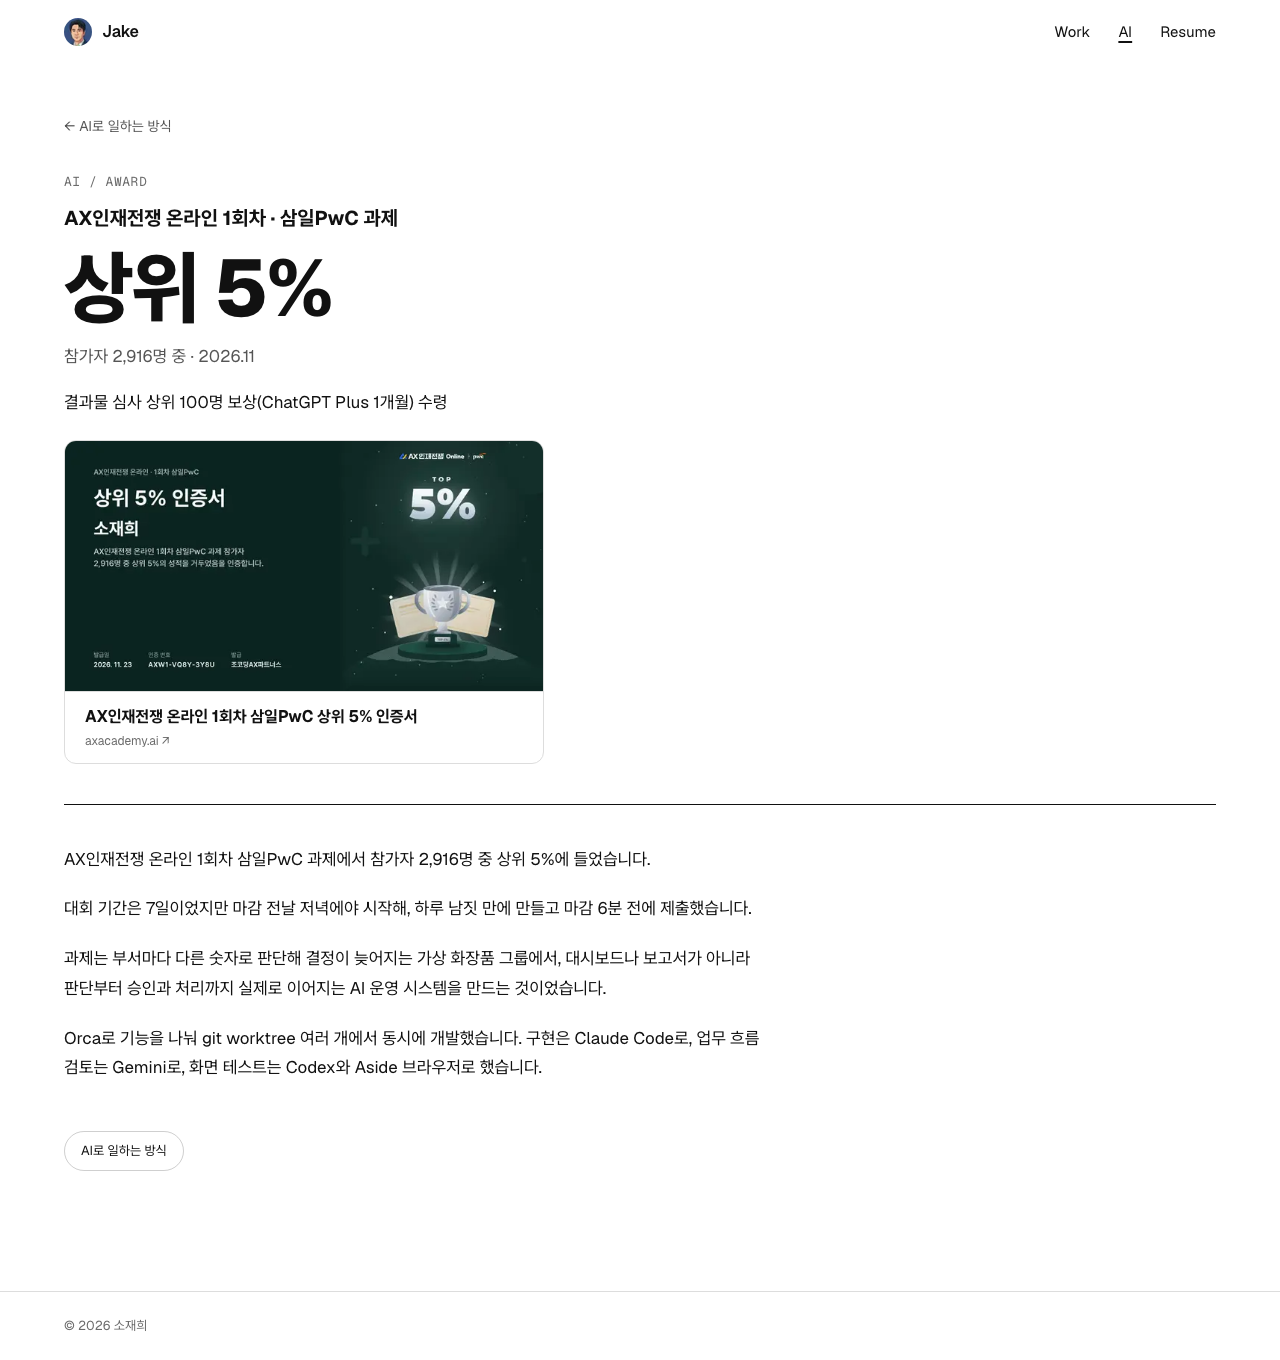
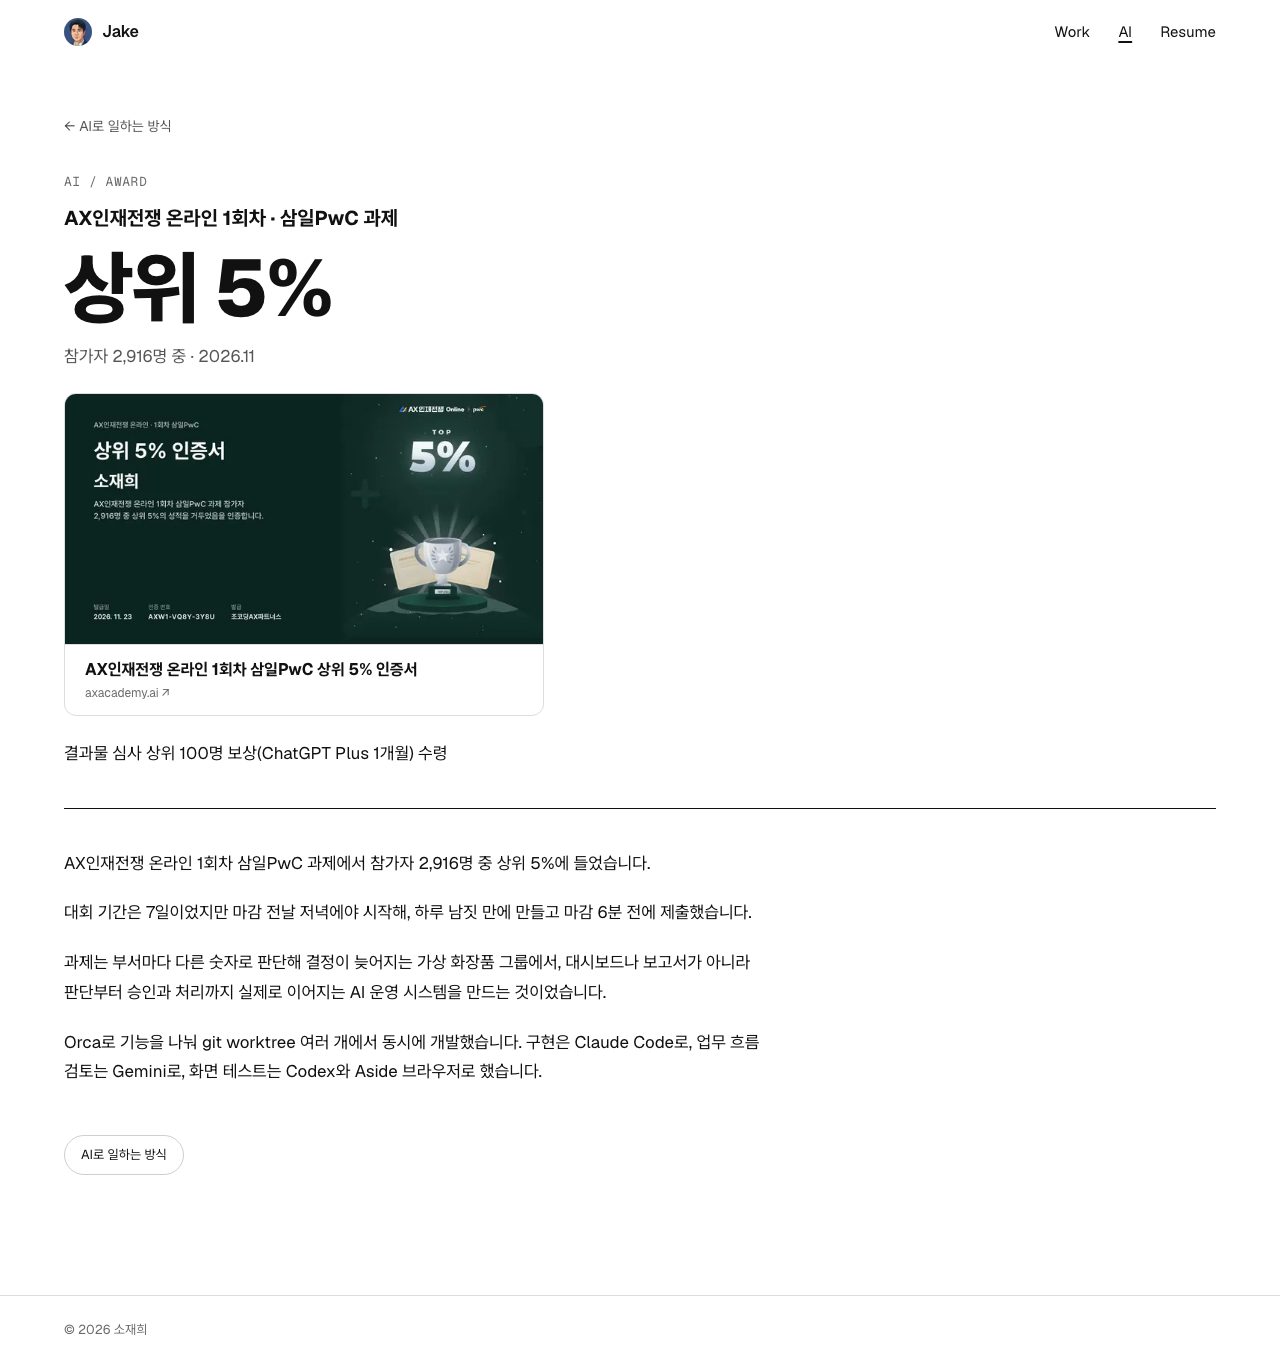
docs: record the reward note below the certificate card

diff --git a/docs/02-ia.md b/docs/02-ia.md
@@ -436,15 +436,16 @@ Design 캔버스에 실제 문구로 그린 `/ai` 시안입니다.
 |---|---|
 | 메시지 | AI 실력을 겨루는 대회에서 상위 5%에 들었고, 무엇을 어떻게 만들었는지 로그인 없이 한 페이지에서 봅니다 |
 | 사실과 출처 | 사이트 전용 글 `content/site/axwar.md`([ADR-0003](adr/0003-content-source-and-sync.md)). 대회 이름, 참가자 수, 상위 5%는 이력서의 대외활동 절과 자기소개, 공개 인증서 페이지, 결과 발표 공지입니다. 덧붙임 줄과 본문 네 문단(본인이 쓴 글)은 공개 공지와 본인 확인(2026-11-27)이 출처이고, 글 끝 주석에 적었습니다 |
-| 구성 | 한 페이지. 돌아가기 링크 → 머리(대회 이름, 큰 결과, 참가자 줄, 덧붙임 줄, 인증서 카드) → 굵은 선 → 본문 네 문단 → 끝 링크 → 푸터 |
+| 구성 | 한 페이지. 돌아가기 링크 → 머리(대회 이름, 큰 결과, 참가자 줄, 인증서 카드, 덧붙임 줄) → 굵은 선 → 본문 네 문단 → 끝 링크 → 푸터 |
 | 움직임 | 없음 |
 
 - **왜 두나**: 홈 띠의 버튼이 대회 측 인증서로 바로 가서, 무엇을 어떻게 만들었는지 설명할 곳이 없었습니다. 같은 글을 올린 다른 곳은 로그인해야 보이고 메신저 안 브라우저에서 열기 번거로워, 로그인 없이 열리고 링크를 보내기 좋은 페이지를 둡니다.
 - **들어오는 길**: 홈 "AI로 일하는 방식"과 `/resume` 머리 아래의 대회 결과 띠, 버튼 "자세히 보기"입니다. 헤더 메뉴와 `/ai`에는 입구가 없습니다. 주소가 `/ai` 아래라 헤더의 "AI"에 지금 보는 곳 표시(밑줄, `aria-current="true"`)가 붙습니다.
 - **돌아가기 링크**: 머리 위에 "← AI로 일하는 방식"(`/ai`). 형제 페이지와 같습니다(AI 판단).
-- **머리**: 머리글 `AI / AWARD`(형제 페이지의 `AI / CASE`, `AI / APP`에 맞춤, AI 판단). 그 아래 "AX인재전쟁 온라인 1회차 · 삼일PwC 과제"(굵게), 큰 "상위 5%", 회색 "참가자 2,916명 중 · 2026.11", 덧붙임 "결과물 심사 상위 100명 보상(ChatGPT Plus 1개월) 수령", 인증서 카드(그림 전체 폭 아래에 제목 "AX인재전쟁 온라인 1회차 삼일PwC 상위 5% 인증서"와 도메인 "axacademy.ai ↗", 새 창) 순서입니다.
+- **머리**: 머리글 `AI / AWARD`(형제 페이지의 `AI / CASE`, `AI / APP`에 맞춤, AI 판단). 그 아래 "AX인재전쟁 온라인 1회차 · 삼일PwC 과제"(굵게), 큰 "상위 5%", 회색 "참가자 2,916명 중 · 2026.11", 인증서 카드(그림 전체 폭 아래에 제목 "AX인재전쟁 온라인 1회차 삼일PwC 상위 5% 인증서"와 도메인 "axacademy.ai ↗", 새 창), 덧붙임 "결과물 심사 상위 100명 보상(ChatGPT Plus 1개월) 수령" 순서입니다.
   - 대회 이름 줄과 "상위 5%"는 화면에서 두 줄이지만 h1 하나로 묶어, 화면 읽기 프로그램과 검색엔진에는 "AX인재전쟁 온라인 1회차 · 삼일PwC 과제 상위 5%"로 읽힙니다(AI 판단). "상위 5%"만 h1이면 무엇의 결과인지 빠집니다.
   - 덧붙임 줄은 처음에 문장("~도 받았습니다")으로 정했다가 개조식으로 바꿨습니다(2026-11-27, 사용자).
+  - 덧붙임 줄의 자리는 처음에 참가자 줄 아래, 카드 위였습니다. 사용자 제안으로 카드 아래와 비교판에서 견줘 카드 아래로 옮겼습니다(2026-11-27). "상위 5%" 바로 아래에 증빙이 오고, 덧붙임은 따로 받은 보상으로 읽힙니다. 카드 바로 밑이라 카드의 설명(인증서가 이 보상까지 증명함)으로 읽히지 않게 카드 테두리 밖에 띄우고(모바일 1rem, 데스크톱 1.5rem) 카드 안 글과 다른 본문 글자로 씁니다. 두 자리 모두 1280×800, 375×812 첫 화면 안에 듭니다.
   - 브라우저 제목은 "AX인재전쟁 대회 상위 5% · 소재희", 검색 설명은 본문 첫 문단입니다. 같은 문장을 두 곳에 두지 않으려고 설명을 따로 쓰지 않습니다(AI 판단).
 - **본문**: 굵은 선 아래 네 문단입니다. 본인이 쓴 글을 그대로 씁니다. 제작 기간은 "하루 남짓"입니다(마감 전날 저녁에 시작해 마감 6분 전에 제출). 이력서 자기소개의 "이틀 만에"는 날짜로 센 말이라 원문을 고치지 않고, 대신 띠에서 기간을 뺐습니다.
 - **인증서 카드**(2026-11-27, 사용자 요청): 링크드인 게시물의 링크 카드처럼 인증서를 미리보기 카드 하나로 보여 줍니다. 처음에는 머리 아래 테두리 버튼과 끝 버튼 줄의 채운 버튼, "인증서 보기" 두 개가 같은 곳으로 갔습니다.

diff --git a/docs/superpowers/specs/2026-11-27-ai-axwar-design.md b/docs/superpowers/specs/2026-11-27-ai-axwar-design.md
@@ -78,10 +78,11 @@ AI / AWARD
 AX인재전쟁 온라인 1회차 · 삼일PwC 과제      (굵게)
 상위 5%                                      (아주 크게)
 참가자 2,916명 중 · 2026.11                  (회색)
-결과물 심사 상위 100명 보상(ChatGPT Plus 1개월) 수령
 ┌ 인증서 그림 (전체 폭) ┐
 │ AX인재전쟁 온라인 1회차 삼일PwC 상위 5% 인증서
 └ axacademy.ai ↗        ┘                   (카드 하나, 새 창)
+
+결과물 심사 상위 100명 보상(ChatGPT Plus 1개월) 수령   (카드 밖, 띄움)
 ━━━━━━━━━━━━━━━━━━━━━━━━━━━━━━━━━━━━━━━━━━━━
 본문 네 문단
 [AI로 일하는 방식]
@@ -91,8 +92,8 @@ AX인재전쟁 온라인 1회차 · 삼일PwC 과제      (굵게)
 - **머리글**: `AI / AWARD`. 형제 페이지의 `AI / CASE`, `AI / APP`에 맞춥니다. (AI 판단)
 - **제목(h1)**: 화면에는 대회 이름 줄과 큰 "상위 5%" 두 줄로 보이고, 두 줄을 h1 하나에 넣습니다. 화면 읽기 프로그램과 검색엔진에는 "AX인재전쟁 온라인 1회차 · 삼일PwC 과제 상위 5%"로 읽힙니다. "상위 5%"만 h1이면 무엇의 결과인지 빠지기 때문입니다. (AI 판단)
 - **참가자 줄**: "참가자 2,916명 중 · 2026.11", 회색.
-- **덧붙임 줄**(확정 문구, 개조식): "결과물 심사 상위 100명 보상(ChatGPT Plus 1개월) 수령". 본문 글자색입니다.
-- **인증서 카드**(2026-11-27 둘째 비교판에서 정함): 덧붙임 아래에 링크드인 게시물의 링크 카드 같은 카드 하나. 그림 전체 폭(데스크톱 30rem까지) 아래에 제목 "AX인재전쟁 온라인 1회차 삼일PwC 상위 5% 인증서"와 도메인 "axacademy.ai". 카드 전체가 링크이고 새 창으로 https://axacademy.ai/axwar/cert/dxN6SEBhEGU6n1JU1brdfPa0 를 엽니다.
+- **덧붙임 줄**(확정 문구, 개조식): "결과물 심사 상위 100명 보상(ChatGPT Plus 1개월) 수령". 본문 글자색입니다. 인증서 카드 아래, 카드 테두리 밖에 띄워 둡니다(셋째 비교판, 2026-11-27). 처음에는 참가자 줄 아래, 카드 위였습니다. 카드 바로 밑이라 카드의 설명으로 읽히지 않게 사이를 넓히고 카드 안 글과 다른 글자로 씁니다.
+- **인증서 카드**(2026-11-27 둘째 비교판에서 정함): 참가자 줄 아래에 링크드인 게시물의 링크 카드 같은 카드 하나. 그림 전체 폭(데스크톱 30rem까지) 아래에 제목 "AX인재전쟁 온라인 1회차 삼일PwC 상위 5% 인증서"와 도메인 "axacademy.ai". 카드 전체가 링크이고 새 창으로 https://axacademy.ai/axwar/cert/dxN6SEBhEGU6n1JU1brdfPa0 를 엽니다.
   - 그림은 인증서 페이지의 공유 그림(og:image, 1200×630)을 받아 `src/assets/ai/axwar/cert.png`에 둡니다. 인증서가 비공개로 바뀌어도 깨지지 않게 하려는 것입니다.
   - 제목은 인증서 페이지의 그림 설명(og:image:alt)입니다. 페이지 제목(og:title)은 이름에 "님"이 붙어 쓰지 않습니다.
   - 처음 설계는 덧붙임 아래 테두리 버튼 "인증서 보기 ↗"와 끝 버튼 줄의 채운 버튼 "인증서 보기 ↗"였습니다. 같은 버튼이 두 번 보인다는 사용자 지적으로 카드 하나로 바꿨습니다. 둘째 비교판에서 가로형(머리 아래), 세로형(머리 아래), 세로형(본문 끝)을 견줘 세로형 머리 아래를 골랐습니다.
@@ -114,8 +115,8 @@ AX인재전쟁 온라인 1회차 · 삼일PwC 과제      (굵게)
 | 대회 이름 줄 | 1rem, 굵게(700) | 1.25rem |
 | "상위 5%" | 3.25rem, 굵기 800, 자간 -0.025em, 줄 간격 1.1 | 5rem |
 | 참가자 줄 | 0.9375rem, `muted` | 1.0625rem |
-| 덧붙임 줄 | 0.9375rem, `fg`, 줄 간격 1.6, 위 0.25rem 더 | 1.0625rem, 위 0.5rem 더 |
 | 인증서 카드 | 본문 폭 전체, 테두리 `line`, 모서리 0.625rem, 위 0.5rem 더. 글 칸 여백 0.75rem · 1rem, 제목 0.9375rem 굵게, 도메인 0.75rem `subtle` | 폭 30rem까지, 모서리 0.75rem, 위 0.75rem 더. 글 칸 여백 0.875rem · 1.25rem, 제목 1rem |
+| 덧붙임 줄 | 카드 아래, 카드 테두리 밖. 0.9375rem, `fg`, 보통 굵기, 줄 간격 1.6. 카드와 사이 1rem(줄 사이 0.5rem에 0.5rem 더) | 1.0625rem. 카드와 사이 1.5rem(줄 사이 0.75rem에 0.75rem 더) |
 | 머리와 굵은 선 사이 | 1.75rem | 2.5rem |
 | 굵은 선과 본문 사이 | 1.75rem | 2.5rem |
 | 본문 | 0.9375rem, 줄 간격 1.75, 문단 사이 1.25rem, 폭 45rem까지 | 1.0625rem |

diff --git a/docs/03-design.md b/docs/03-design.md
@@ -588,8 +588,8 @@
 | 대회 이름 줄 | 1rem, 굵게(700) | 1.25rem |
 | "상위 5%" | 3.25rem, 굵기 800, 자간 -0.025em, 줄 간격 1.1 | 5rem |
 | 참가자 줄 | 0.9375rem, `muted` | 1.0625rem |
-| 덧붙임 줄 | 0.9375rem, `fg`, 줄 간격 1.6, 위 0.25rem 더 | 1.0625rem, 위 0.5rem 더 |
 | 인증서 카드 | 본문 폭 전체, 테두리 1 `line`, 모서리 0.625rem, 위 0.5rem 더. 그림 1200:630 전체 폭, 아래 선 `line`. 글 칸 안쪽 여백 위아래 0.75rem · 좌우 1rem, 제목 0.9375rem 굵게(700) 줄 간격 1.4, 도메인 0.75rem `subtle`, 사이 0.25rem | 폭 30rem까지, 모서리 0.75rem, 위 0.75rem 더. 글 칸 여백 위아래 0.875rem · 좌우 1.25rem, 제목 1rem |
+| 덧붙임 줄 | 카드 아래, 카드 테두리 밖. 0.9375rem, `fg`, 보통 굵기, 줄 간격 1.6. 카드와 사이 1rem(줄 사이 0.5rem에 0.5rem 더) | 1.0625rem. 카드와 사이 1.5rem(줄 사이 0.75rem에 0.75rem 더) |
 | 머리와 굵은 선 사이 | 1.75rem | 2.5rem |
 | 굵은 선과 본문 사이 | 1.75rem | 2.5rem |
 | 본문 | 0.9375rem, 줄 간격 1.75, 문단 사이 1.25rem, 폭 45rem까지 | 1.0625rem |
@@ -599,11 +599,16 @@
 - 색은 흑백뿐입니다. 결과를 강조색이나 그라데이션으로 칠하지 않습니다(위 "색").
 - 인증서 카드는 링크 카드처럼 보이게 바탕 없이 테두리만 둡니다. 마우스를 올리면 테두리가 짙어지고(`fg` 40%) 제목에 밑줄이 생깁니다(AI 판단). 그림은 인증서 페이지의 공유 그림이라 색이 있습니다. 서비스 캡처처럼 그림 안의 색이고, 사이트 글과 선은 흑백 그대로입니다.
 - 끝 버튼 줄에는 "AI로 일하는 방식" 하나만 둡니다(인증서는 카드 하나로만 감, 2026-11-27).
-- 375×812와 1280×800 첫 화면 안에 인증서 카드까지 들어오는지는 E2E가 봅니다. 구현 뒤 잰 카드의 아래 끝은 페이지 위에서 375에서 약 37.7rem(603px), 1280에서 약 47.7rem(764px), 320에서 약 37.4rem(598px)입니다(2026-11-27, 개발 서버). 버튼이던 때는 375에서 380px, 1280에서 480px였습니다.
+- 덧붙임 줄은 카드 아래, 카드 테두리 밖에 둡니다(2026-11-27 비교판). "상위 5%" 바로 아래에 그 증빙인 카드가 오게 하려는 것입니다. 카드와 사이를 덧붙임 줄 위 간격보다 넓게 띄우고, 카드 안의 굵은 제목·작은 회색 도메인과 다른 본문 글자로 써서 카드의 설명 글로 읽히지 않게 합니다. 처음에는 참가자 줄 아래, 카드 위에 있었습니다.
+- 375×812와 1280×800 첫 화면 안에 덧붙임 줄까지 들어오는지는 E2E가 봅니다. 구현 뒤 잰 아래 끝은 페이지 위에서 덧붙임 줄 375에서 607px, 1280에서 768px, 320에서 602px이고, 카드는 567px, 716px, 538px입니다(2026-11-27, 개발 서버). 인증서가 버튼이던 때 버튼 아래 끝은 375에서 380px, 1280에서 480px였습니다.
 
 | 첫 화면 1280×800 | 첫 화면 375×812 |
 |---|---|
 | ![대회 결과 페이지 첫 화면](design/ai-axwar/first-1280.png) | ![모바일 대회 결과 페이지 첫 화면](design/ai-axwar/first-375.png) |
+
+| 덧붙임 줄 지금 (카드 위) | 덧붙임 줄 제안 (카드 아래, 고름) |
+|---|---|
+| ![카드 위의 덧붙임 줄](design/ai-axwar/board-extra-now-1280.png) ![모바일 카드 위의 덧붙임 줄](design/ai-axwar/board-extra-now-375.png) | ![카드 아래의 덧붙임 줄](design/ai-axwar/board-extra-below-1280.png) ![모바일 카드 아래의 덧붙임 줄](design/ai-axwar/board-extra-below-375.png) |
 
 | 홈 띠 (2026-11-27) | `/resume` 띠 (2026-11-27) |
 |---|---|
